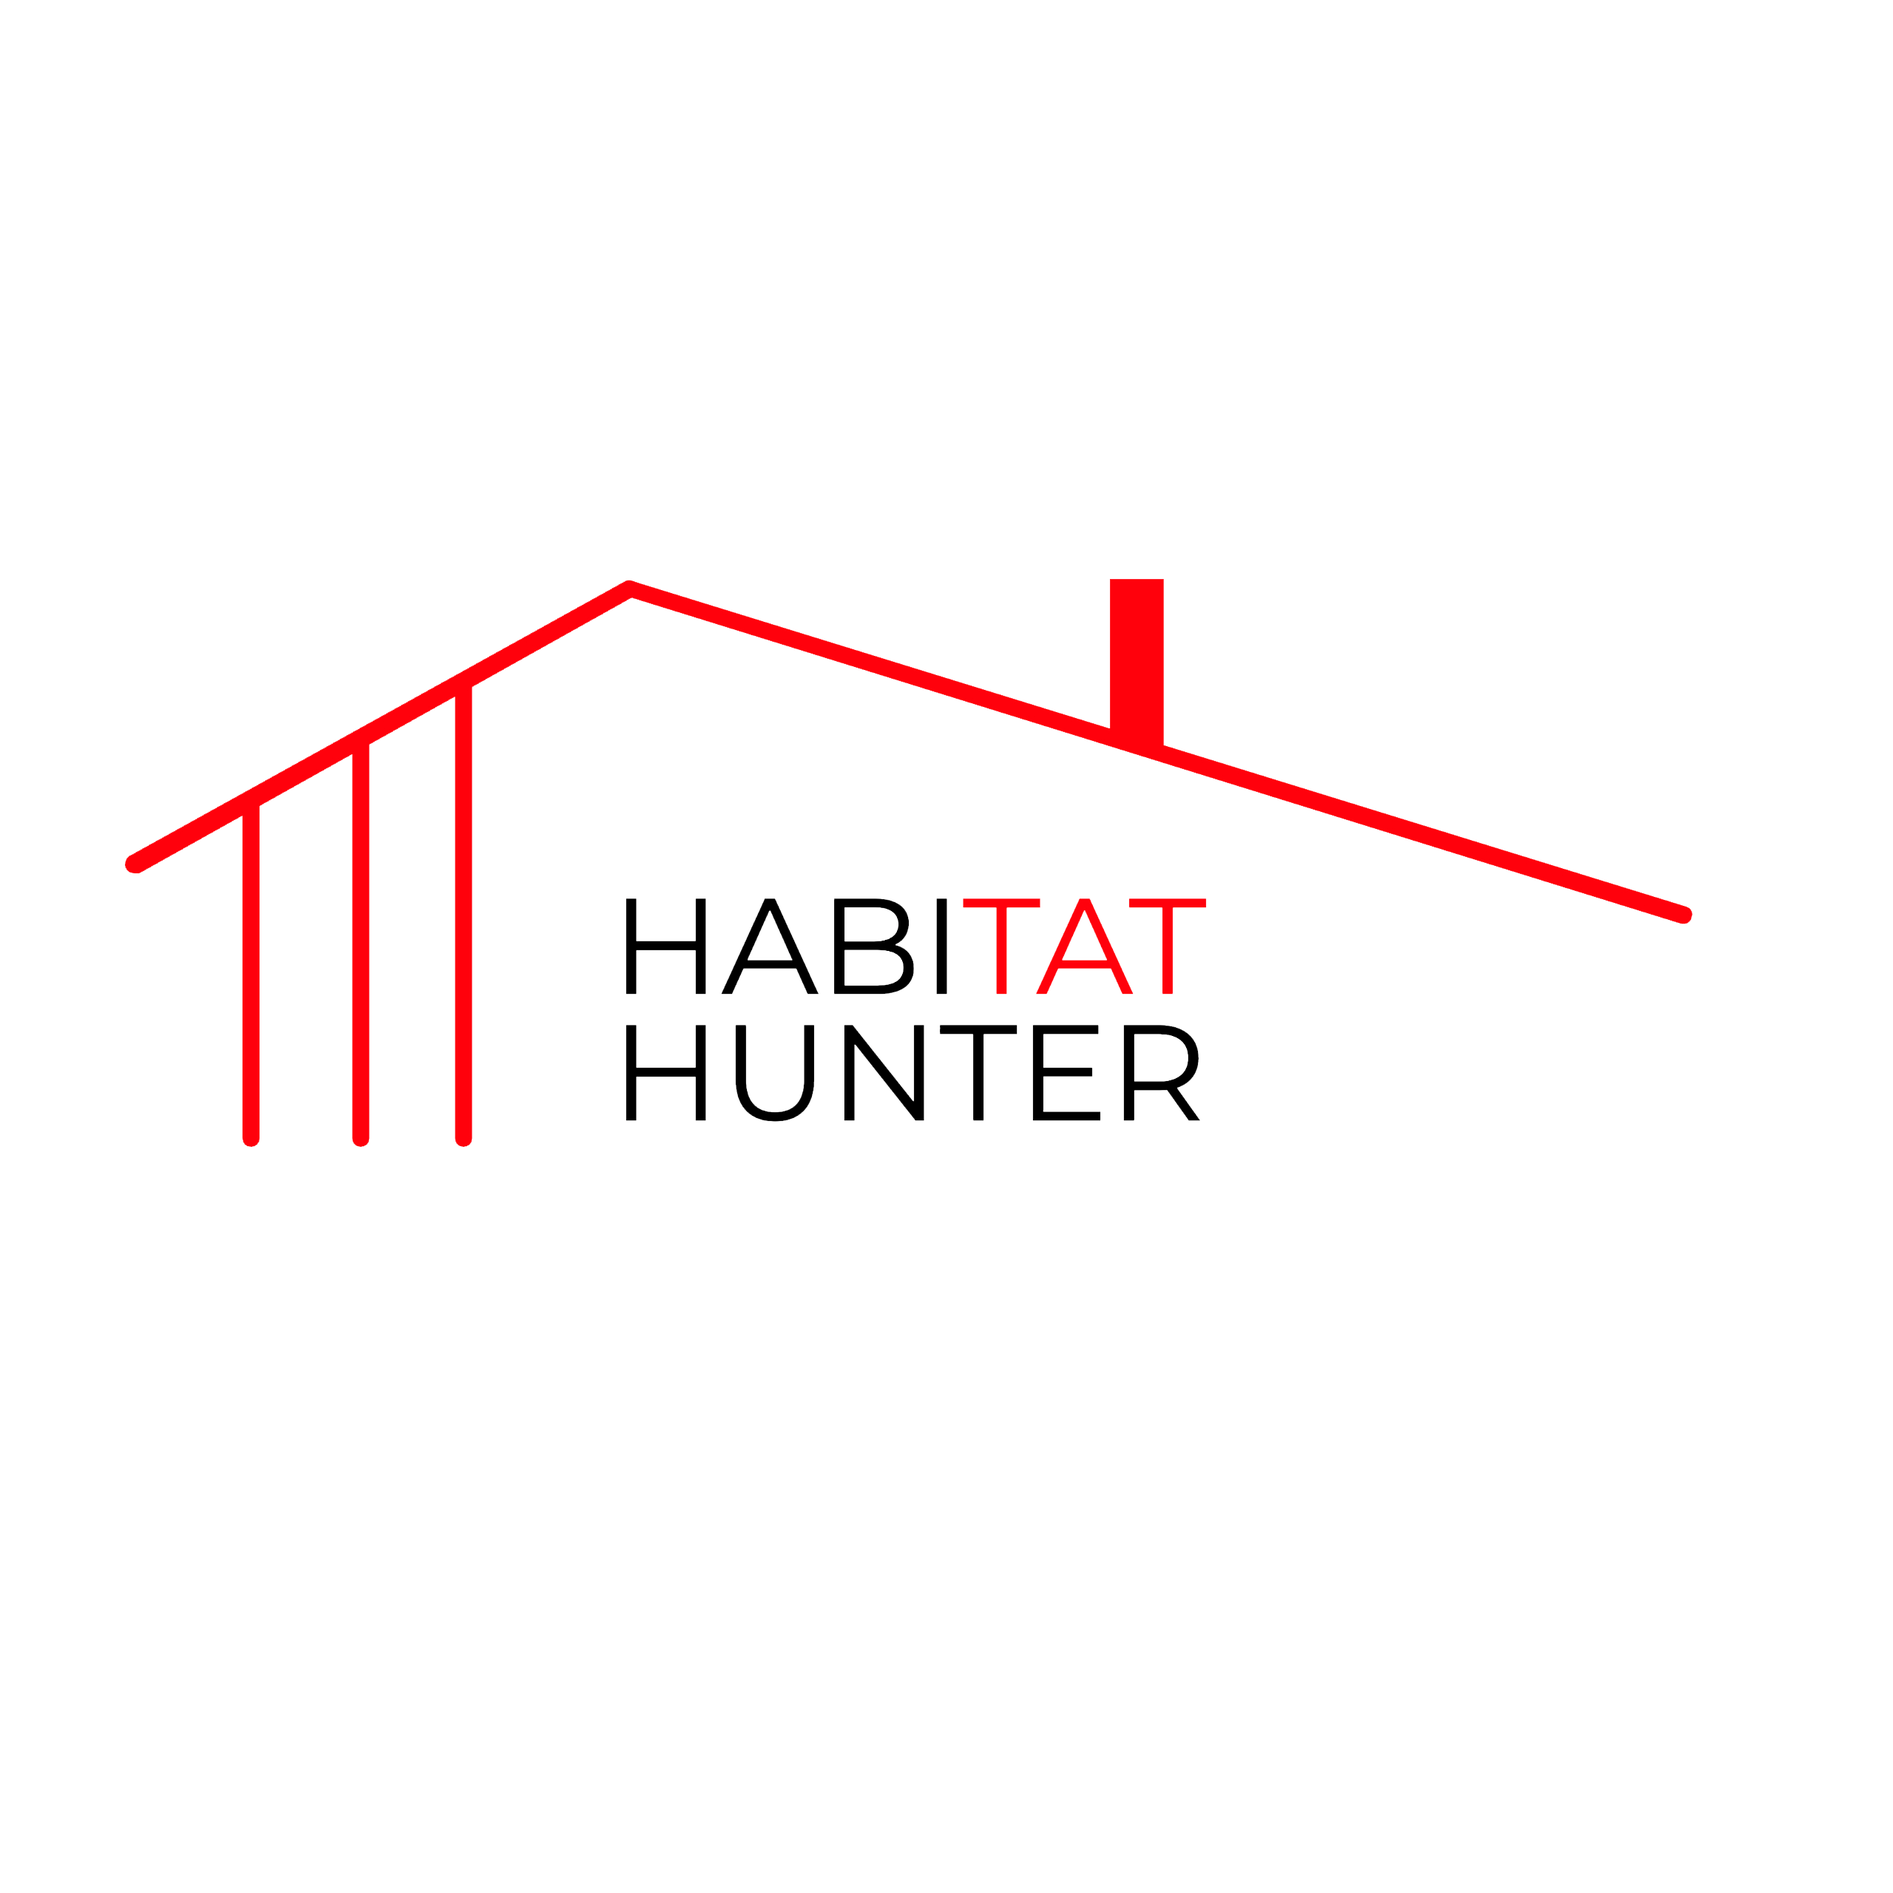
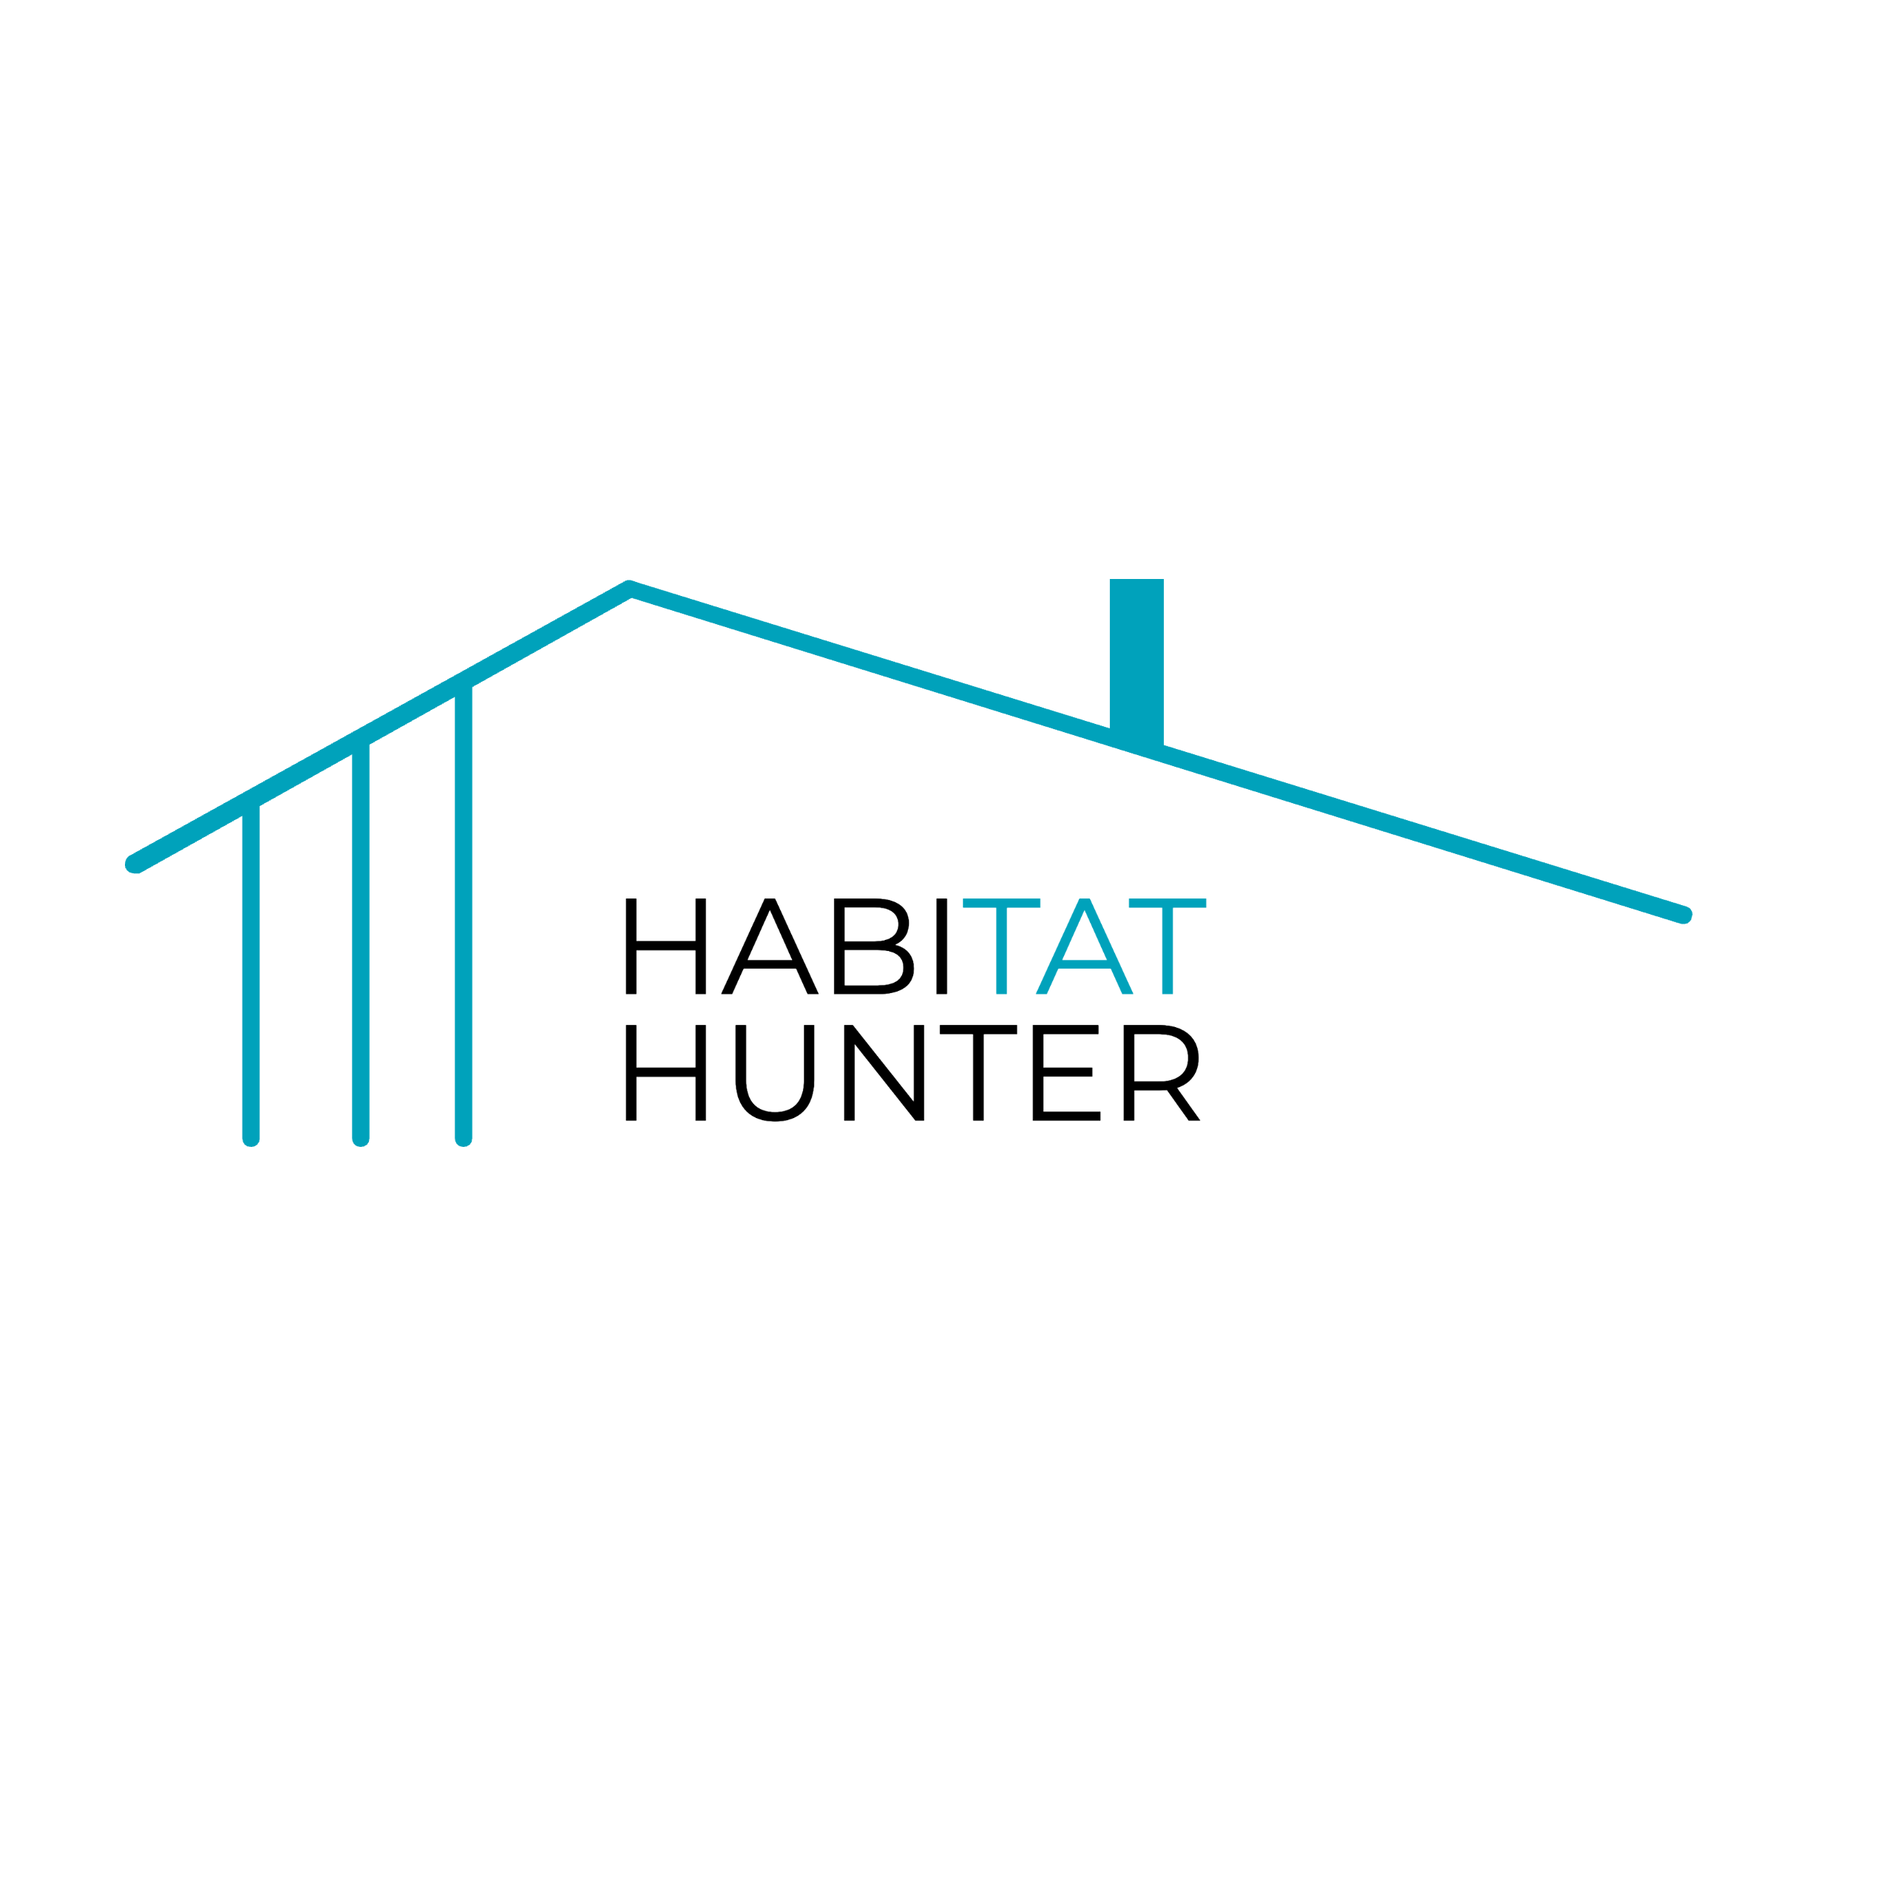
working on firebase for image upload and storage

diff --git a/src/components/AddListing.jsx b/src/components/AddListing.jsx
@@ -1,0 +1,200 @@
+import { useState } from 'react'
+import { useNavigate } from 'react-router-dom'
+import Client, { BASE_URL } from '../services/api'
+import Filters from '../components/Filters'
+
+const AddListing = ({
+    getAllListings,
+    handleChange,
+    handleUpload,
+    percentage,
+    imageURL,
+}) => {
+    let addListing = false
+    const navigate = useNavigate()
+    const [listing, setListing] = useState({})
+    const [next, setNext] = useState(false)
+    const [values, setValues] = useState({
+        image: '',
+        title: '',
+        price: '',
+        content: '',
+        amenities: '',
+    })
+
+    const handleFormChange = (e) => {
+        setValues({
+            ...values,
+            [e.target.name]: e.target.value,
+        })
+    }
+
+    const handleSubmit = async (e) => {
+        e.preventDefault()
+        if (addListing) {
+            const res = await Client.put(`${BASE_URL}/listing/create`, {
+                image: imageURL,
+                title: values.title,
+                price: values.price,
+                content: values.content,
+                amenities: values.amenities,
+            })
+            if (res.statusCode === 200) {
+                setValues(true)
+                setListing(res.data)
+                percentage = 100
+            }
+        }
+    }
+    if (percentage === 100 && values.price && values.content) addListing = true
+
+    return (
+        <div>
+            <div className='flex justify-center'>
+                <form
+                    className='space-y-14 divide-y divide-gray-200 w-1/2'
+                    onSubmit={handleSubmit}>
+                    <div className='space-y-8 divide-y divide-gray-200'>
+                        <div className='py-14'>
+                            <div>
+                                <h3 className='text-4xl mb-5 font-semibold leading-6 text-gray-900'>
+                                    Add your listing
+                                </h3>
+                                <p className='mt-1 text-sm text-gray-500'>
+                                    Fill out the information about your home.
+                                </p>
+                            </div>
+
+                            <div className='mt-6 grid grid-cols-1 gap-y-6'>
+                                <div className='sm:col-span-3'>
+                                    <label
+                                        htmlFor='name'
+                                        className='block text-md font-medium leading-6 text-gray-900'>
+                                        Title
+                                    </label>
+                                    <div className='mt-2'>
+                                        <input
+                                            value={values.title}
+                                            type='text'
+                                            name='title'
+                                            id='title'
+                                            required
+                                            autoComplete='given-title'
+                                            onChange={handleFormChange}
+                                            className='block w-full rounded-md border-0 py-1.5 text-gray-900 shadow-sm ring-1 ring-inset ring-gray-300 placeholder:text-gray-400 focus:ring-2 focus:ring-inset focus:ring-red-600 sm:text-sm sm:leading-6'
+                                        />
+                                    </div>
+                                </div>
+
+                                <div className='sm:col-span-6'>
+                                    <label
+                                        htmlFor='description'
+                                        className='block text-md font-medium leading-6 text-gray-900'>
+                                        Description
+                                    </label>
+                                    <div className='mt-2'>
+                                        <textarea
+                                            value={values.content}
+                                            name='content'
+                                            id='content'
+                                            required
+                                            onChange={handleFormChange}
+                                            className='block w-full rounded-md border-0 py-1.5 text-gray-900 shadow-sm ring-1 ring-inset ring-gray-300 placeholder:text-gray-400 focus:ring-2 focus:ring-inset focus:ring-red-600 sm:text-sm sm:leading-6'
+                                        />
+                                    </div>
+                                    <p className='mt-2 text-sm text-gray-500'>
+                                        Please Describe your Home.
+                                    </p>
+                                </div>
+
+                                <div className='sm:col-span-6'>
+                                    <label
+                                        htmlFor='price'
+                                        className='block text-md font-medium leading-6 text-gray-900'>
+                                        Asking Price
+                                    </label>
+                                    <div className='mt-2'>
+                                        <input
+                                            value={values.price}
+                                            type='number'
+                                            step='1'
+                                            min='100_000'
+                                            name='price'
+                                            id='price'
+                                            required
+                                            onChange={handleFormChange}
+                                            className='block w-full rounded-md border-0 py-1.5 text-gray-900 shadow-sm ring-1 ring-inset ring-gray-300 placeholder:text-gray-400 focus:ring-2 focus:ring-inset focus:ring-red-600 sm:text-sm sm:leading-6'
+                                        />
+                                    </div>
+                                    <p className='mt-2 text-sm text-gray-500'>
+                                        What is Your Asking $Price?
+                                    </p>
+                                </div>
+
+                                <div className='sm:col-span-6'>
+                                    <div className='flex'>
+                                        <label
+                                            htmlFor='image'
+                                            className='block text-md font-medium leading-6 text-gray-900 mr-4'>
+                                            Upload an image of your home
+                                        </label>
+                                        <p>{percentage}% done</p>
+                                    </div>
+                                    <div className='mt-2'>
+                                        <input
+                                            type='file'
+                                            onChange={handleChange}
+                                            accept='/image/*'
+                                        />
+                                        <button
+                                            className='ml-3 inline-flex justify-center rounded-md bg-red-600 py-2 px-3 text-sm font-semibold text-white shadow-sm hover:bg-red-500 focus-visible:outline focus-visible:outline-2 focus-visible:outline-offset-2 focus-visible:outline-red-600'
+                                            onClick={handleUpload}>
+                                            Upload image
+                                        </button>
+                                    </div>
+                                </div>
+
+                                <div className='sm:col-span-6'>
+                                    {next ? (
+                                        <Filters listing={listing} />
+                                    ) : null}
+                                </div>
+                            </div>
+                        </div>
+                    </div>
+                    <div className='pt-5'>
+                        <div className='flex justify-end mb-40'>
+                            {!next ? (
+                                <>
+                                    {!addListing ? (
+                                        <button
+                                            type='submit'
+                                            className='ml-3 inline-flex justify-center rounded-md bg-slate-400 py-2 px-3 text-sm font-semibold text-white shadow-sm hover:bg-red-500 focus-visible:outline focus-visible:outline-2 focus-visible:outline-offset-2 focus-visible:outline-red-600'>
+                                            Next
+                                        </button>
+                                    ) : (
+                                        <button
+                                            type='submit'
+                                            className='ml-3 inline-flex justify-center rounded-md bg-red-600 py-2 px-3 text-sm font-semibold text-white shadow-sm hover:bg-red-500 focus-visible:outline focus-visible:outline-2 focus-visible:outline-offset-2 focus-visible:outline-red-600'>
+                                            Next
+                                        </button>
+                                    )}
+                                </>
+                            ) : (
+                                <button
+                                    onClick={() => {
+                                        getAllListings()
+                                        navigate('/')
+                                    }}
+                                    className='ml-3 inline-flex justify-center rounded-md bg-red-600 py-2 px-3 text-sm font-semibold text-white shadow-sm hover:bg-red-500 focus-visible:outline focus-visible:outline-2 focus-visible:outline-offset-2 focus-visible:outline-red-600'>
+                                    Done
+                                </button>
+                            )}
+                        </div>
+                    </div>
+                </form>
+            </div>
+        </div>
+    )
+}
+export default AddListing

diff --git a/src/components/Navbar.jsx b/src/components/Navbar.jsx
@@ -29,18 +29,20 @@ const Navbar = () => {
                         Family Size
                     </button>
                 </div>
-                <div className='bg-red-600 p-2 rounded-full mr-2 cursor-pointer'>
+                <div className='bg-[#00A2BB] p-2 rounded-full mr-2 cursor-pointer'>
                     <FiSearch className=' text-white w-full cursor-pointer' />
                 </div>
             </div>
-            <div className='flex items-center pr-3 font-semibold text-gray-600'>
-                <p className='text-[17px]'>I'm Home</p>
-                <div className='flex items-center mx-4 gap-1'>
+            <div className='flex items-center pr-3 px-4 py-2 font-semibold text-gray-600'>
+                <p className='flex shadow-gray-300 items-center px-4 py-2 border rounded-full gap-2 text-gray-500 font-bold hover:bg-gray-300 duration-100 ease-in-out cursor-pointer'>
+                    Sell Home
+                </p>
+                <div className='flex items-center px-2 py-2 rounded-full hover:bg-gray-300 items-center mx-4 gap-2'>
                     <CgDarkMode className='text-[22px] cursor-pointer' />
                 </div>
                 <div
                     onClick={() => togglepopup()}
-                    className='flex shadow-lg shadow-gray-300 items-center px-4 py-2 border rounded-full gap-2 bg-red-600 text-white font-bold hover:bg-red-300 duration-100 ease-in-out cursor-pointer'>
+                    className='flex shadow-lg shadow-gray-300 items-center px-4 py-2 border rounded-full gap-2 bg-[#00A2BB] text-white font-bold hover:bg-blue-300 duration-100 ease-in-out cursor-pointer'>
                     <FiMenu className='text-[19px]' />
                     <AiOutlineUser className='text-[22px]' />
                 </div>

diff --git a/src/firebase.jsx b/src/firebase.jsx
@@ -1,0 +1,17 @@
+// Import the functions you need from the SDKs you need
+import { initializeApp } from 'firebase/app'
+import { getAnalytics } from 'firebase/analytics'
+import { getStorage } from 'firebase/storage'
+const firebaseConfig = {
+    apiKey: 'AIzaSyBuP-TFZO0yQk3qHp8t77DutLDH4DPMomw',
+    authDomain: 'habitat-hunter.firebaseapp.com',
+    projectId: 'habitat-hunter',
+    storageBucket: 'habitat-hunter.appspot.com',
+    messagingSenderId: '1051380367603',
+    appId: '1:1051380367603:web:dc22f540b24fd23d79b786',
+    measurementId: 'G-C0N8CZRPE1',
+}
+
+// Initialize Firebase
+const app = initializeApp(firebaseConfig)
+export const storage = getStorage(app)
